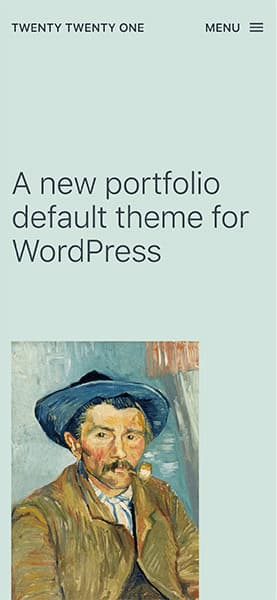
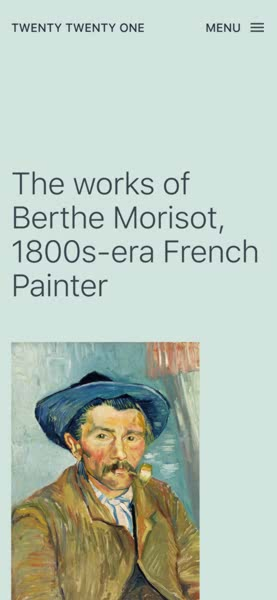
Update Twenty Twenty-One mobile screenshot; make notice about dark mode toggle clearer; fix mobile switcher link on non-AMP (#5680)

diff --git a/src/MobileRedirection.php b/src/MobileRedirection.php
@@ -416,6 +416,17 @@ final class MobileRedirection implements Service, Registerable {
 			return;
 		}
 		$source = file_get_contents( AMP__DIR__ . '/assets/css/amp-mobile-version-switcher' . ( is_rtl() ? '-rtl' : '' ) . '.css' ); // phpcs:ignore WordPress.WP.AlternativeFunctions
+
+		if ( 'twentytwentyone' === get_template() ) {
+			// When on a non-AMP page and the mobile menu is open, the mobile version link is incorrectly shown at the
+			// top of the page. In that case, the mobile version link is hidden.
+			$source .= '
+				body.lock-scrolling > #amp-mobile-version-switcher {
+					display: none;
+				}
+			';
+		}
+
 		printf( '<style>%s</style>', $source ); // phpcs:ignore WordPress.Security.EscapeOutput.OutputNotEscaped
 	}
 

diff --git a/tests/php/src/MobileRedirectionTest.php b/tests/php/src/MobileRedirectionTest.php
@@ -439,6 +439,18 @@ final class MobileRedirectionTest extends WP_UnitTestCase {
 		$output = ob_get_clean();
 		$this->assertStringStartsWith( '<style>', $output );
 		$this->assertStringContains( '#amp-mobile-version-switcher', $output );
+		$this->assertStringNotContains( 'body.lock-scrolling > #amp-mobile-version-switcher', $output );
+
+		add_filter(
+			'template',
+			static function () {
+				return 'twentytwentyone';
+			}
+		);
+		ob_start();
+		$this->instance->add_mobile_version_switcher_styles();
+		$output = ob_get_clean();
+		$this->assertStringContains( 'body.lock-scrolling > #amp-mobile-version-switcher', $output );
 
 		add_filter( 'amp_mobile_version_switcher_styles_used', '__return_false' );
 		ob_start();

diff --git a/includes/sanitizers/class-amp-core-theme-sanitizer.php b/includes/sanitizers/class-amp-core-theme-sanitizer.php
@@ -2107,12 +2107,6 @@ class AMP_Core_Theme_Sanitizer extends AMP_Base_Sanitizer {
 					.primary-navigation > div > .menu-wrapper > .menu-item-has-children:hover > .sub-menu-toggle > .icon-minus {
 						display: flex;
 					}
-
-					/* In the Twenty Twenty-One theme, when on a non-AMP page and the mobile menu is open, the switcher
-					is incorrectly shown at the top. In that case the switcher is hidden. */
-					body.lock-scrolling > #amp-mobile-version-switcher {
-						display: none;
-					}
 				';
 
 				// Ideally wp_add_inline_style() would accept a $position argument like wp_add_inline_script() does, in

diff --git a/includes/admin/class-amp-template-customizer.php b/includes/admin/class-amp-template-customizer.php
@@ -224,7 +224,7 @@ class AMP_Template_Customizer {
 	 * Add notice that the dark mode toggler button is not currently available on AMP pages.
 	 */
 	public function add_dark_mode_toggler_button_notice() {
-		$message = __( 'The dark mode toggle button is not currently available on AMP pages. It appears here for preview purposes.', 'amp' );
+		$message = __( 'While dark mode works on AMP pages, the toggle button is not currently available. It appears here only for preview purposes.', 'amp' );
 		?>
 		<script>
 			wp.customize.control( 'respect_user_color_preference', function ( control ) {
